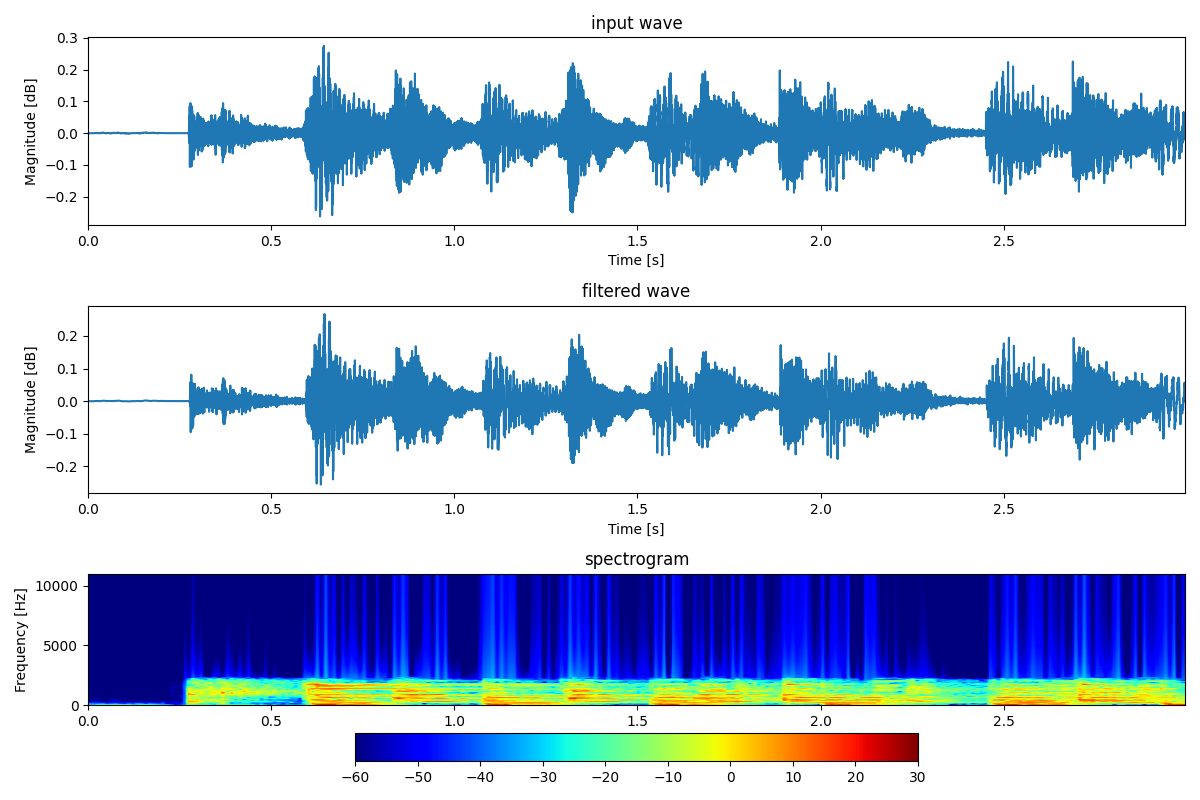
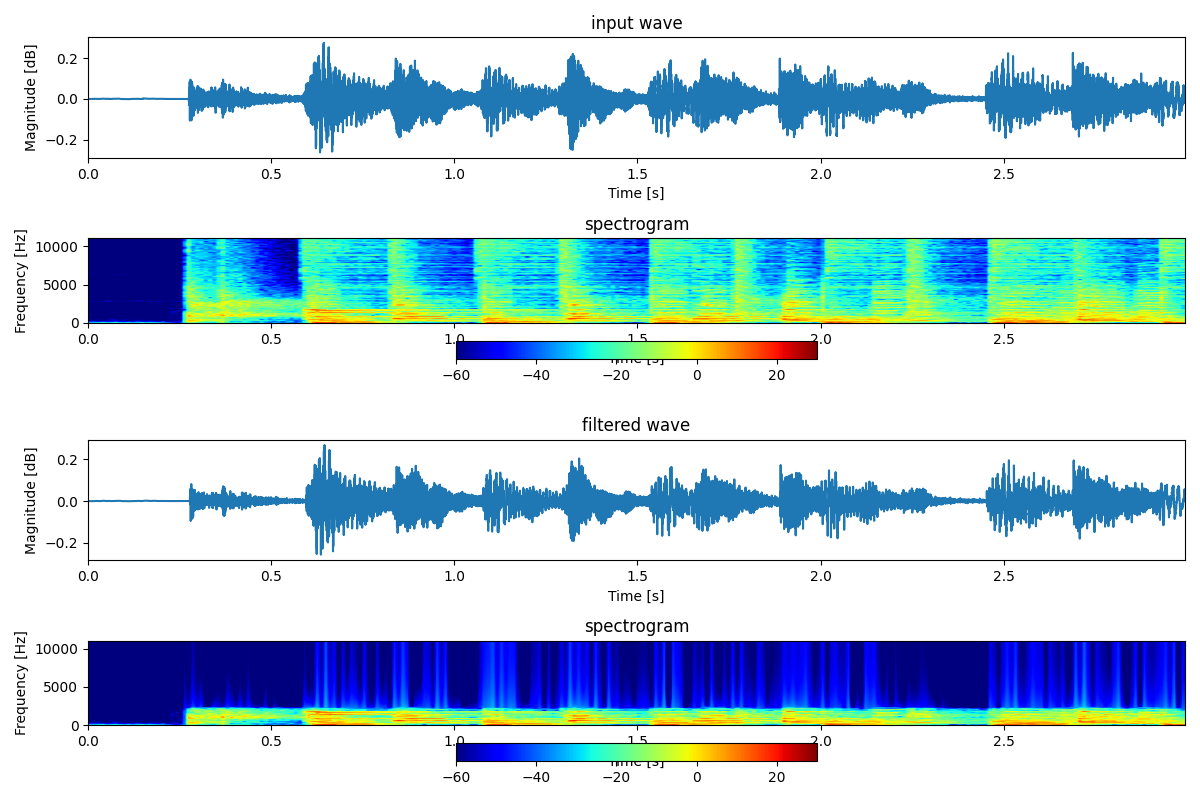
入力信号のスぺ区トログラムも表示するように変更

diff --git a/ex2/k_morita/main.py b/ex2/k_morita/main.py
@@ -30,7 +30,7 @@ if __name__ == "__main__":
     mag_db = sp.mag_to_db(mag)
 
     # draw graph
-    fig, axes = plt.subplots(3, 1, figsize=(12, 8))
+    fig, axes = plt.subplots(4, 1, figsize=(12, 8))
     x = np.linspace(0, total_time, total_frame)
 
     # draw input wave
@@ -40,14 +40,33 @@ if __name__ == "__main__":
     axes[0].set_ylabel("Magnitude [dB]")
     axes[0].set_xlim(0, total_time)
 
-    axes[1].plot(x, filtered_y[:total_frame])
-    axes[1].set_title("filtered wave")
+    # draw input spectrogram
+    ifft, _, _ = sp.stft(y, samplerate, win_len=window_length, ol=overlap_rate)
+    imag, _ = sp.magphase(ifft)
+    im = axes[1].imshow(
+        sp.mag_to_db(imag),
+        cmap="jet",
+        aspect="auto",
+        vmin=-60,
+        vmax=30,
+        extent=[0, total_time, 0, nyquist_freq],
+    )
+    axes[1].set_title("spectrogram")
     axes[1].set_xlabel("Time [s]")
-    axes[1].set_ylabel("Magnitude [dB]")
+    axes[1].set_ylabel("Frequency [Hz]")
     axes[1].set_xlim(0, total_time)
+    axes[1].set_ylim(0, nyquist_freq)
+    plt.colorbar(mappable=im, ax=axes[1], orientation="horizontal")
+
+    # draw filtered wave
+    axes[2].plot(x, filtered_y[:total_frame])
+    axes[2].set_title("filtered wave")
+    axes[2].set_xlabel("Time [s]")
+    axes[2].set_ylabel("Magnitude [dB]")
+    axes[2].set_xlim(0, total_time)
 
     # draw spectrogram
-    im = axes[2].imshow(
+    im = axes[3].imshow(
         mag_db,
         cmap="jet",
         aspect="auto",
@@ -55,12 +74,12 @@ if __name__ == "__main__":
         vmax=30,
         extent=[0, total_time, 0, nyquist_freq],
     )
-    axes[2].set_title("spectrogram")
-    axes[2].set_xlabel("Time [s]")
-    axes[2].set_ylabel("Frequency [Hz]")
-    axes[2].set_xlim(0, total_time)
-    axes[2].set_ylim(0, nyquist_freq)
-    plt.colorbar(mappable=im, ax=axes[2], orientation="horizontal")
+    axes[3].set_title("spectrogram")
+    axes[3].set_xlabel("Time [s]")
+    axes[3].set_ylabel("Frequency [Hz]")
+    axes[3].set_xlim(0, total_time)
+    axes[3].set_ylim(0, nyquist_freq)
+    plt.colorbar(mappable=im, ax=axes[3], orientation="horizontal")
 
     plt.tight_layout()
     plt.savefig("result.png")
